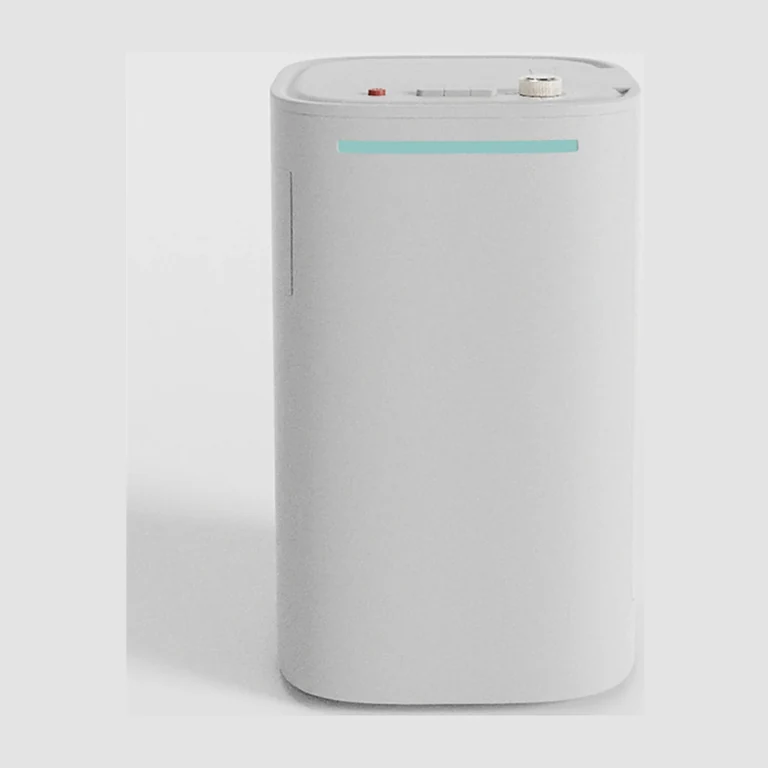
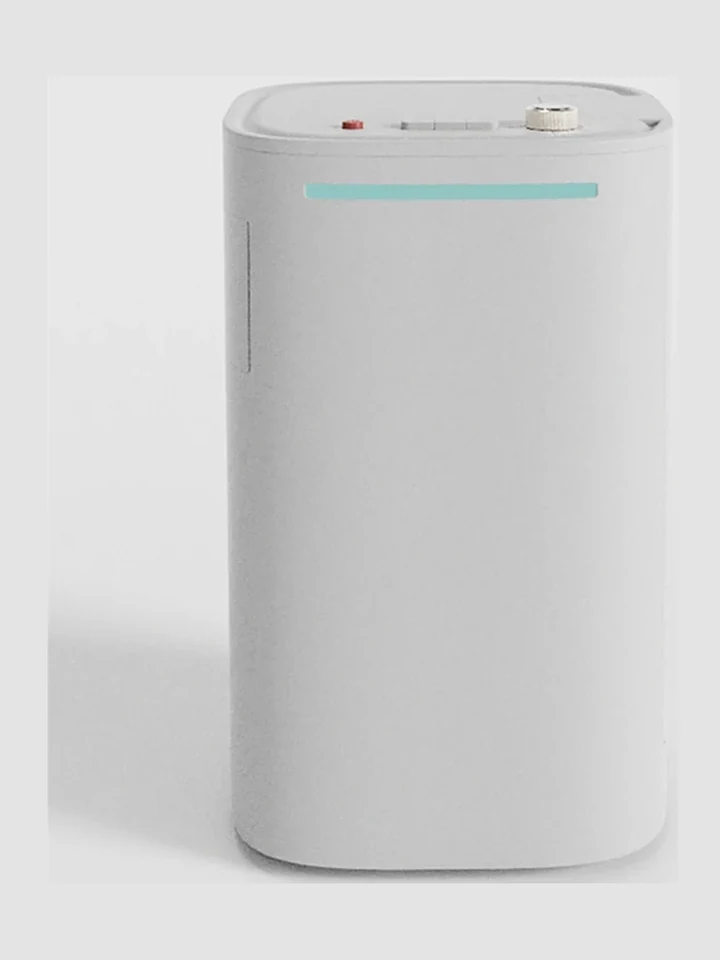
V4.2 第二批（图片 QA）—— 按 §6 新验收标准逐张过图
§6.1/§6.3 按主体安全区重构图并另存网站专用封面：
  doggie-main-site（DOGGIE 主图 7/8/7/8%）、wateralarm-cover-site（落水报警主图 2:3）、
  doggie-explode-site、wateralarm-final-site、More Work 四张 cover-*-site —— 全部 ≥6% 安全区、无一触边
§6.4 More Work 封面比例与容器对齐（1.33）
§19 逐张人工 QA（按模块顺序出核对表 + 视觉判定）后删弱图 6 张：
  DOGGIE 04 偏小且与主图重复的产品图 / DesignDNA 三张（一张与封面重复、两张画布空白）/
  落水报警配色板（顶部含客户品牌 TENYU OCEAN 天元海，违反 §9.2）/ Robot 与封面同机位的开发板照
§14 step__pair 只剩一张图时铺满整列（禁止小图+大片空白）
Lumora 收纳态重构图到 3:4，与使用态并排等高
通用修正器：所有 img 的 width/height 与 srcset 宽度描述符全部等于文件真实尺寸（复检 0 问题）

diff --git a/assets/css/site.css b/assets/css/site.css
@@ -848,3 +848,7 @@ ol.numlist li { margin-bottom: 4px; }
    为控总高（§30），小图比主视觉缩一档、间距收紧。 */
 #p-wateralarm .project__aux--pair { max-width: 820px; gap: var(--s-3); margin-top: var(--s-4); }
 #p-wateralarm .project__aux--pair figcaption { font-size: var(--fs-caption); }
+
+/* ══ V4.2 §14：step__pair 只剩一张图时铺满整列（禁止「一张很小的图 + 大片空白」）══ */
+.step__pair:has(> figure:only-child) { grid-template-columns: minmax(0, 1fr); }
+.step__pair:has(> figure:only-child) figure img { width: 100%; height: auto; }

diff --git a/assets/js/site.js b/assets/js/site.js
@@ -4,7 +4,7 @@
    ============================================================ */
 (function () {
   'use strict';
-  window.__siteBuild = 'v16-v42-b1';   /* 构建标记：排查缓存用 */
+  window.__siteBuild = 'v17-v42-b2';   /* 构建标记：排查缓存用 */
   var reduce = window.matchMedia('(prefers-reduced-motion: reduce)');
   var isMobile = function () { return window.innerWidth <= 720; };
 
